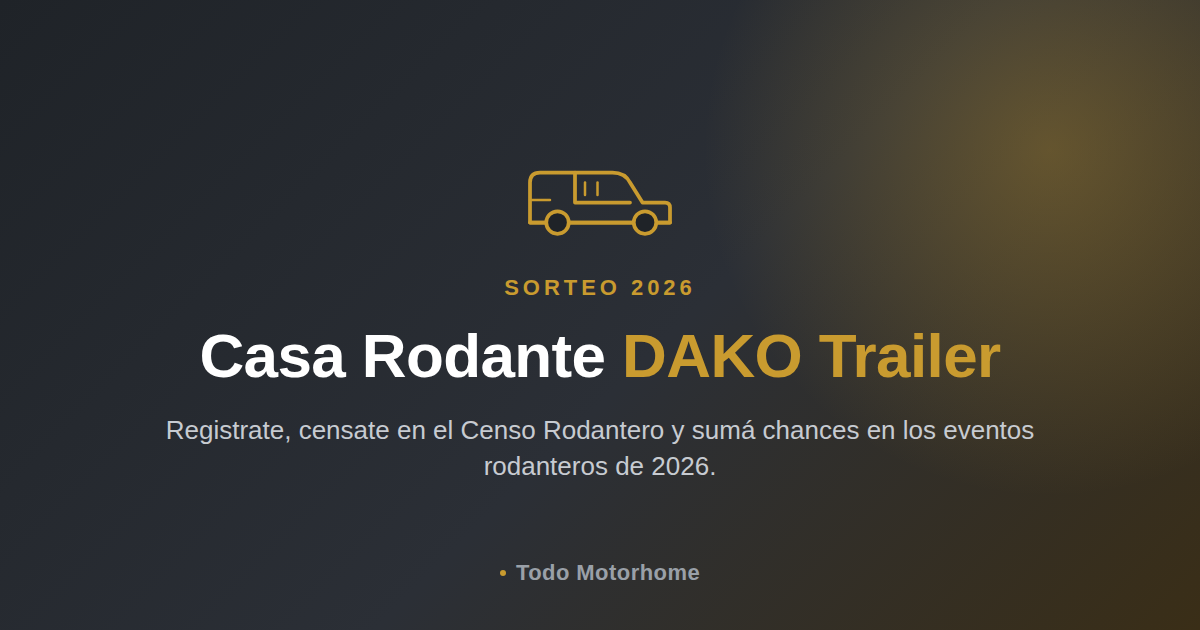
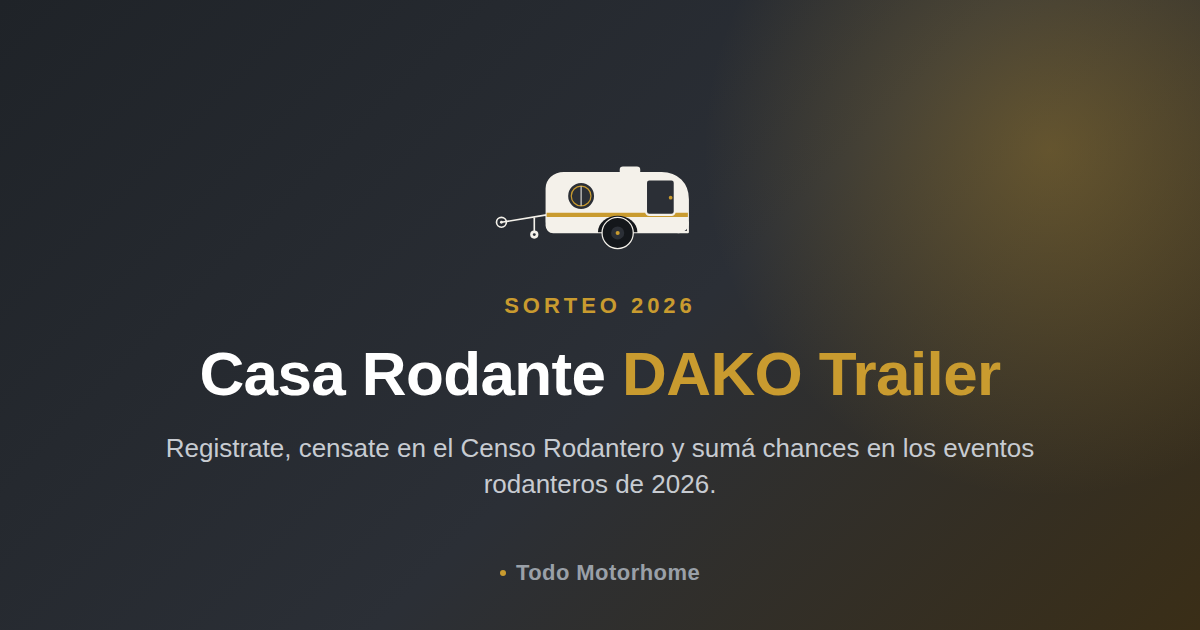
Remove internal needs section, add caravan hero illustration
Drop the "Necesidades del proyecto" block from the public /sorteo page
since it's internal planning info, not something participants need to
see. Replace the small hero icon with a larger illustrated tow-behind
caravan (drawbar, coupler, jockey wheel, single axle) so the hero reads
clearly as a casa rodante de tiro rather than a motorhome, and refresh
the OG image to match.

Claude-Session: https://claude.ai/code/session_01XKqT156sBciGXsCzYaoM9E

Changed region(s): [[0.1542, 0.4222, 0.8325, 0.6333], [0.1233, 0.6635, 0.8633, 0.7841], [0.4008, 0.2714, 0.5858, 0.3921]]

diff --git a/sorteo/index.html b/sorteo/index.html
@@ -399,7 +399,7 @@
   .tmh-footer__links .tmh-footer__gap{height:28px;}
 
   /* ============ SORTEO — EXTRA STYLES ============ */
-  .hero__icon{width:104px;height:auto;margin:0 auto 22px;display:block;color:var(--gold-dark);}
+  .hero__icon{width:min(400px,80vw);height:auto;margin:0 auto 20px;display:block;}
   .hero__kicker{
     text-align:center;font-size:.8rem;font-weight:700;letter-spacing:.14em;
     text-transform:uppercase;color:var(--gold-dark);margin-bottom:14px;
@@ -570,15 +570,28 @@
 
 <!-- Hero -->
 <section class="hero">
-  <svg class="hero__icon" viewBox="0 0 120 80" fill="none" stroke="currentColor" stroke-width="3" stroke-linecap="round" stroke-linejoin="round" aria-hidden="true">
-    <path d="M4 62 L4 30 Q4 22 12 22 L70 22 Q80 22 84 30 L94 46 L112 46 Q116 46 116 50 L116 62 Z"/>
-    <path d="M4 62 L116 62"/>
-    <path d="M40 22 L40 46 L84 46"/>
-    <path d="M48 30 L48 40" stroke-width="2"/>
-    <path d="M58 30 L58 40" stroke-width="2"/>
-    <circle cx="26" cy="62" r="9" fill="#fff"/>
-    <circle cx="96" cy="62" r="9" fill="#fff"/>
-    <path d="M4 44 L20 44" stroke-width="2"/>
+  <svg class="hero__icon" viewBox="0 0 560 340" aria-hidden="true">
+    <ellipse cx="300" cy="288" rx="200" ry="16" fill="#1f2328" opacity="0.08"/>
+    <path d="M40 232 L150 214 L150 232" fill="none" stroke="#1f2328" stroke-width="4" stroke-linecap="round" stroke-linejoin="round"/>
+    <circle cx="40" cy="232" r="12" fill="#faf8f3" stroke="#1f2328" stroke-width="4"/>
+    <circle cx="40" cy="232" r="3.5" fill="#1f2328"/>
+    <line x1="120" y1="222" x2="120" y2="256" stroke="#1f2328" stroke-width="4" stroke-linecap="round"/>
+    <circle cx="120" cy="262" r="10" fill="#1f2328"/>
+    <circle cx="120" cy="262" r="3.5" fill="#faf8f3"/>
+    <path d="M150 150 C150 128 168 112 192 112 L430 112 C468 112 494 138 494 176 L494 232 C494 246 484 256 470 256 L166 256 C157 256 150 249 150 240 Z"
+          fill="#ffffff" stroke="#1f2328" stroke-width="5" stroke-linejoin="round"/>
+    <path d="M150 214 L494 214" stroke="#c99b2f" stroke-width="10"/>
+    <rect x="330" y="98" width="46" height="16" rx="6" fill="#ffffff" stroke="#1f2328" stroke-width="4"/>
+    <circle cx="234" cy="168" r="34" fill="#faf8f3" stroke="#1f2328" stroke-width="5"/>
+    <circle cx="234" cy="168" r="24" fill="none" stroke="#c99b2f" stroke-width="3"/>
+    <line x1="234" y1="144" x2="234" y2="192" stroke="#1f2328" stroke-width="2.5"/>
+    <rect x="392" y="128" width="70" height="86" rx="8" fill="#faf8f3" stroke="#1f2328" stroke-width="5"/>
+    <circle cx="452" cy="172" r="4.5" fill="#c99b2f"/>
+    <path d="M275 256 a48 40 0 0 1 96 0 Z" fill="#1f2328"/>
+    <circle cx="323" cy="258" r="38" fill="#1f2328"/>
+    <circle cx="323" cy="258" r="16" fill="#faf8f3"/>
+    <circle cx="323" cy="258" r="5" fill="#c99b2f"/>
+    <path d="M470 256 L494 256 L494 232" fill="none" stroke="#1f2328" stroke-width="5" stroke-linecap="round" stroke-linejoin="round"/>
   </svg>
   <p class="hero__kicker">Sorteo 2026 · Todo Motorhome</p>
   <h1>Sorteo Casa Rodante <em>DAKO Trailer</em></h1>
@@ -844,18 +857,6 @@
       </div>
     </div>
   </div>
-</section>
-
-<!-- Necesidades del proyecto -->
-<section class="section section--soft section--narrow" id="necesidades" style="max-width:1080px;">
-  <p class="section__kicker">Cómo se lleva adelante</p>
-  <h2 class="section__title">Necesidades del proyecto</h2>
-  <ul class="needs-list" style="max-width:760px;margin-left:auto;margin-right:auto;">
-    <li><strong>Espacio físico:</strong> stand del sorteo gestionado por Todo Motorhome en cada evento, con dimensiones suficientes para la exhibición de la Casa Rodante y la TITI.</li>
-    <li><strong>Comunicación:</strong> difusión y campaña activa por parte de todas las marcas involucradas.</li>
-    <li><strong>Cobertura:</strong> registro audiovisual y cobertura mediática del proceso y presencia en eventos.</li>
-    <li><strong>Legal:</strong> contratación e intervención de escribano público para la realización del sorteo.</li>
-  </ul>
 </section>
 
 <!-- CTA Legal -->
